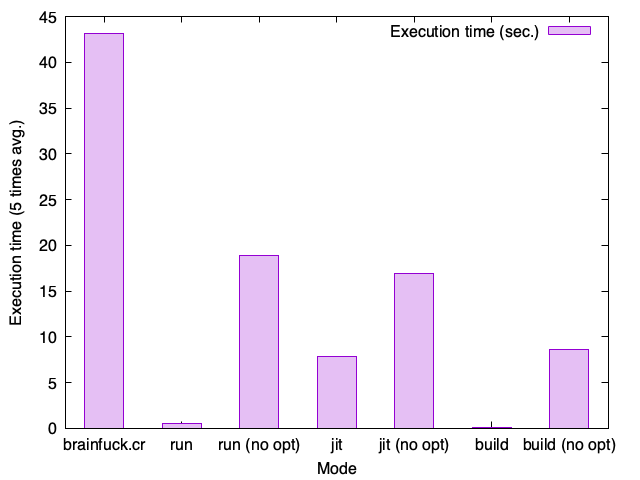
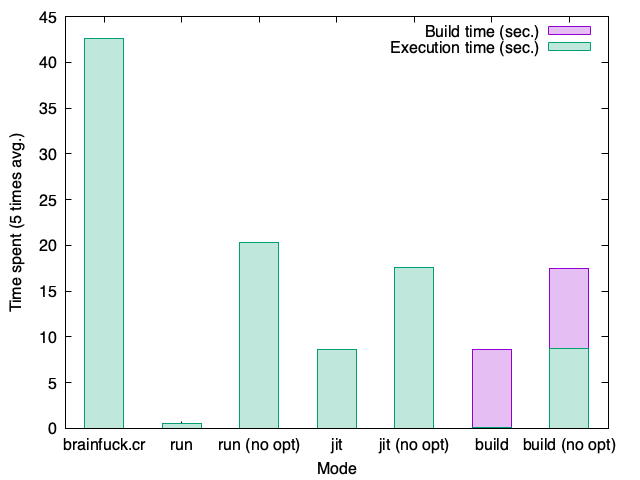
Update README

diff --git a/README.md b/README.md
@@ -19,54 +19,120 @@ To build the interpreter/compiler, simply clone the repository and build the pro
 ```shell
 $ git clone https://github.com/soya-daizu/bfcr.git
 $ cd bfcr
-$ shards build --release
+$ shards build bfcr --release
 ```
 
 ## Usage
 
 ```shell
+# Run all sample programs in every modes available.
+# Note that this could take very long (up to 20 mins) depending on your hardware.
+$ shards run benchmark
+
 $ ./bin/bfcr run sample/mandelbrot.bf # Run in interpreter mode
 $ ./bin/bfcr run sample/mandelbrot.bf --no-opt # No peephole optimizations
 
 $ ./bin/bfcr jit sample/mandelbrot.bf # Run in JIT mode
-$ ./bin/bfcr jit sample/mandelbrot.bf --no-opt # No peephole optimizations & execute unoptimized IR
+$ ./bin/bfcr jit sample/mandelbrot.bf --no-opt # No peephole optimizations & no IR optimizations done by LLVM
 
 $ ./bin/bfcr build sample/mandelbrot.bf # Build executable
-$ ./bin/bfcr build sample/mandelbrot.bf --no-opt # Also without optimizations
-$ ./out # Built executables are named "out"
+$ ./bin/bfcr build sample/mandelbrot.bf --no-opt # Also without any optimizations
+$ ./out # Built executables are named "out" by default
 ```
 
 ## Benchmarks
 
-`build` and `build --no-opt` does not take compile time into account.
-
 \*[brainfuck.cr](https://gist.github.com/soya-daizu/16eed302d7d4d55181f5f5243ef08a50) is a patched version of brainfuck interpreter found in the official Crystal examples. The original source code can be found at: https://github.com/crystal-lang/crystal/blob/master/samples/brainfuck.cr
+
+In general, the `run` mode without optimizations runs the slowest among all the bfcr execution modes, but the interpreter in bfcr makes it still faster than in brainfuck.cr.
+
+The `run` mode with static optimizations usually goes the second, but in some programs, it greatly outperforms the `jit` mode which requires active optimization and almost matches the speed of the binary emitted by the `build` mode. This is mostly due to LLVM taking very long to actively optimize the program before it starts running in the `jit` mode, and although the `run` mode only performs a collection of static optimizations, it is sometimes effective enough to run the program fast.
+
+The `build` mode in general emits the fastest codes to excecute, but as mentioned, the optimizations done by LLVM could make the program very long to compile.
 
 ### factor.bf
 
 Used "179424691" as an input
 
-| brainfuck.cr | run  | run (no opt) | jit   | jit (no opt) | build | build (no opt) |
-| ------------ | ---- | ------------ | ----- | ------------ | ----- | -------------- |
-| 14.196       | 3.05 | 11.647       | 0.517 | 1.45         | 0.216 | 1.065          |
+| Mode | brainfuck.cr | run    | run (no opt) | jit    | jit (no opt) | build                        | build (no opt)               |
+| Time | 14.635s      | 3.002s | 12.423s      | 0.576s | 1.525s       | 0.251s (+ 0.483s build time) | 1.112s (+ 0.625s build time) |
 
 ![chart](media/factor.png)
 
 ### mandelbrot.bf
 
-| brainfuck.cr | run   | run (no opt) | jit   | jit (no opt) | build | build (no opt) |
-| ------------ | ----- | ------------ | ----- | ------------ | ----- | -------------- |
-| 47.77        | 6.591 | 34.954       | 2.989 | 4.001        | 1.234 | 3.549          |
+| Mode | brainfuck.cr | run    | run (no opt) | jit    | jit (no opt) | build                        | build (no opt)               |
+| Time | 49.216s      | 6.719s | 35.57s       | 3.236s | 4.132s       | 1.265s (+ 2.186s build time) | 3.604s (+ 0.619s build time) |
 
 ![chart](media/mandelbrot.png)
 
 ### hanoi.bf
 
-| brainfuck.cr | run   | run (no opt) | jit  | jit (no opt) | build | build (no opt) |
-| ------------ | ----- | ------------ | ---- | ------------ | ----- | -------------- |
-| 43.191       | 0.483 | 18.922       | 7.86 | 16.873       | 0.075 | 8.559          |
+| Mode | brainfuck.cr | run    | run (no opt) | jit    | jit (no opt) | build                        | build (no opt)               |
+| Time | 42.593s      | 0.483s | 20.3s        | 8.576s | 17.608s      | 0.075s (+ 8.508s build time) | 8.769s (+ 8.748s build time) |
 
 ![chart](media/hanoi.png)
+
+## Explanations on the static optimizations
+
+While bfcr make use of LLVM to actively optimize the program in the `jit` and `build` mode, a lot of the improvements in performance is achieved by the static optimizations. Many Brainfuck programs often has certain patterns of instructions to do some common operations (like copying or assigning a value to a cell) that often appears very verbose and takes unneededly long to execute. Bfcr detects those patterns before excecution or compilation and translates them into a single-call instruction.
+
+Below are the static optimizations that are currently implemented in bfcr.
+
+### Deflate repeated instructions into one
+
+```brainfuck
++++++ Translates into Command(@type=IncData, @arg=5)
+----- Translates into Command(@type=IncData, @arg=-5)
+>>>>> Translates into Command(@type=IncPtr, @arg=5)
+<<<<< Translates into Command(@type=IncPtr, @arg=-5)
+```
+
+### Detect decrement loops to set the current value to 0
+
+```brainfuck
+Decrement (or increment) until the value in the current cell gets to 0
+[-] or [+] Translates into Command(@type=Clear)
+```
+
+### Detect pointer movements to the next or last empty cell
+
+```brainfuck
+Moves pointer by -1 (or 1) until it finds a cell with value 0
+[<] Translates into Command(@type=Scan, @arg=-1)
+[>] Translates into Command(@type=Scan, @arg=1)
+Moves pointer by -3 (or 3) until it finds a cell with value 0
+[<<<] Translates into Command(@type=Scan, @arg=-3)
+[>>>] Translates into Command(@type=Scan, @arg=3)
+```
+
+### Detect moving value to another cell
+
+```brainfuck
+Decrement and then increment to the next cell until the value in the first cell gets to 0
+[->+<] Translates into Command(@type=Multiply, @arg=1, @arg2=1)
+Does the same but to the previous cell
+[-<+>] Translates into Command(@type=Multiply, @arg=-1, @arg2=1)
+Does the same but to the cell after three
+[->>>+<<<] Translates into Command(@type=Multiply, @arg=3, @arg2=1)
+
+@arg is a offset to the destination cell from the original cell 
+@arg2 is a multiplier value (which is 1 when moving value)
+```
+
+### Detect multiplying value to another cell
+
+```brainfuck
+Decrement by 1 and then increment by 3 to the next cell until the value in the first cell gets to 0
+[->+++<] Translates into Command(@type=Multiply, @arg=1, @arg2=3)
+Does the same but to the previous cell
+[-<+++>] Translates into Command(@type=Multiply, @arg=-1, @arg2=3)
+Does the same but to the cell after three
+[->>>+++<<<] Translates into Command(@type=Multiply, @arg=3, @arg2=3)
+
+@arg is a offset to the destination cell from the original cell 
+@arg2 is a multiplier value
+```
 
 ## Contributing
 
